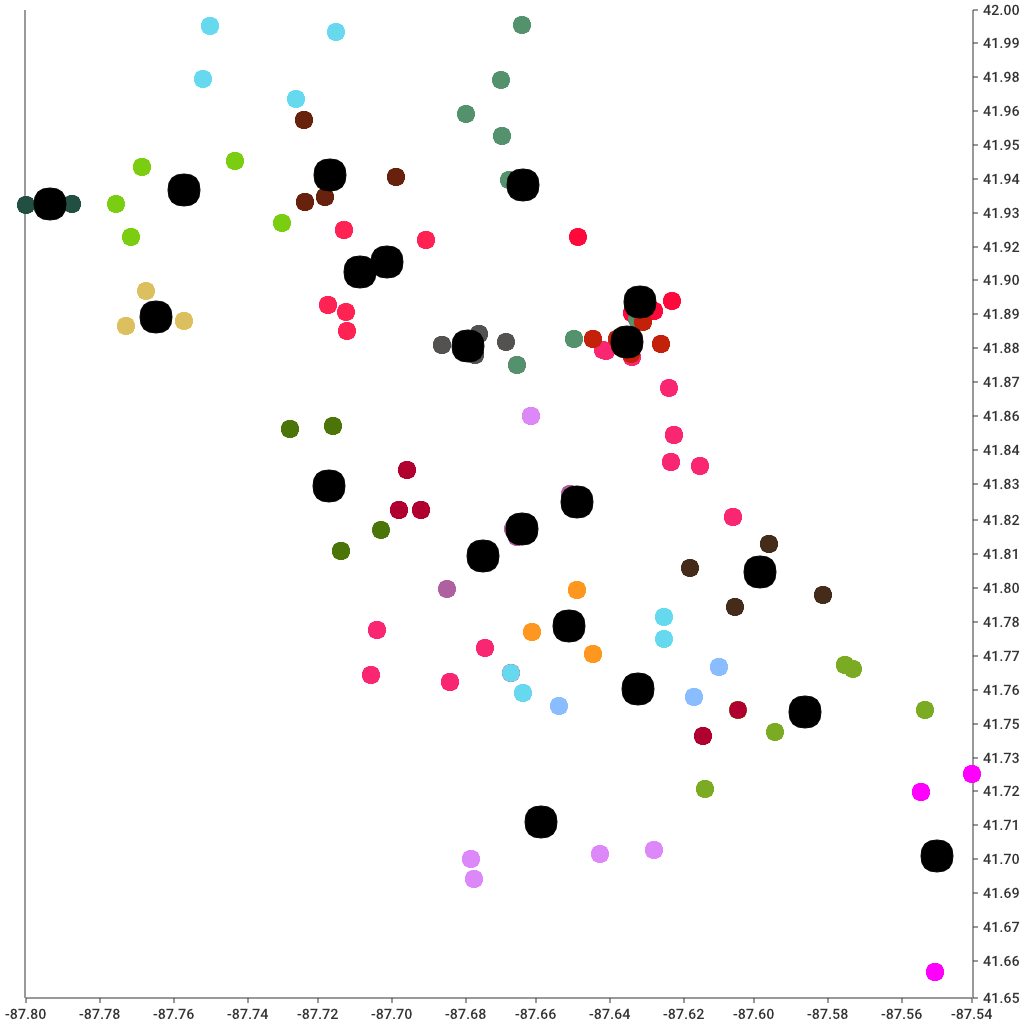
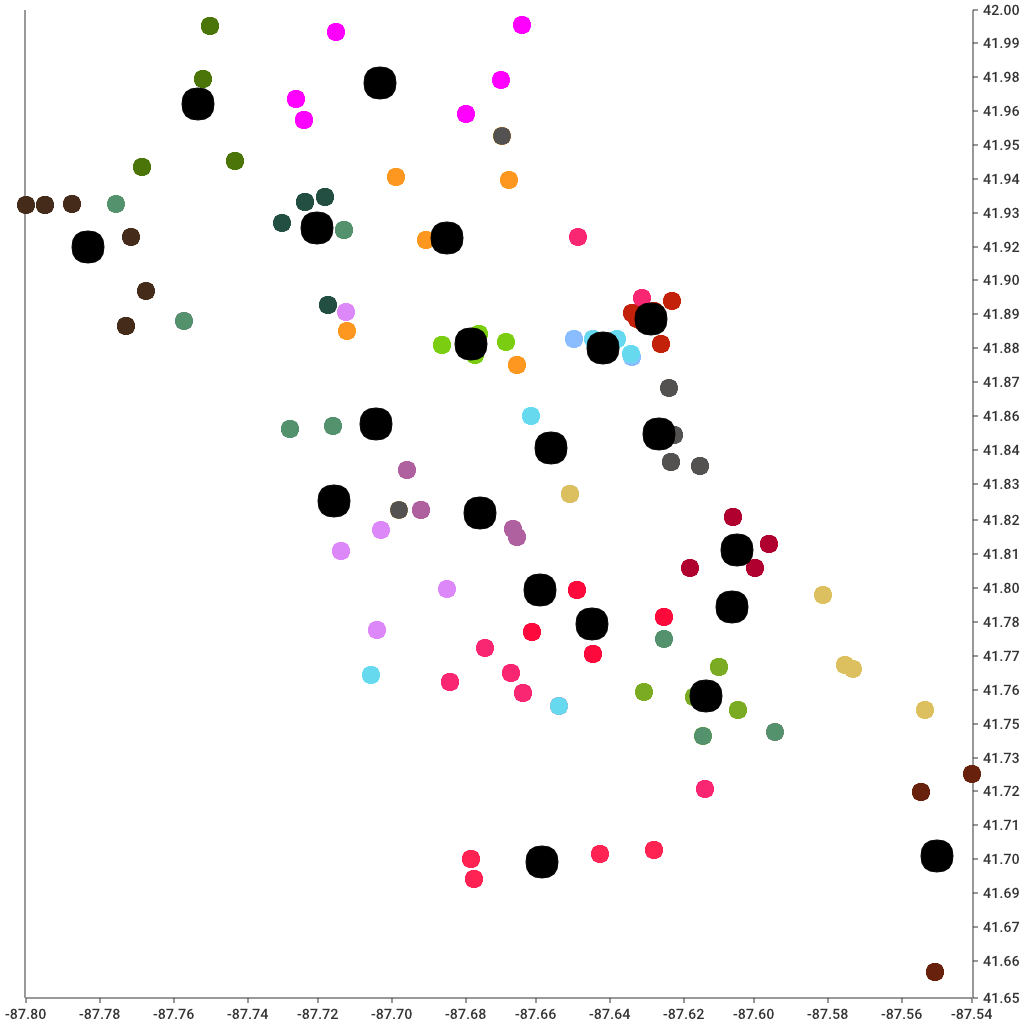
new method

diff --git a/borderadjust.go b/borderadjust.go
@@ -11,7 +11,7 @@ type diffsort struct {
 	data   Observation
 }
 
-func (c Clusters) borderadjust(A int, B int) (Observations, []diffsort) {
+func (c Clusters) borderadjust(A int) (Observations, []diffsort) {
 	rand.Seed(time.Now().UnixNano())
 	// For each point p in area A
 	var diff []diffsort
@@ -19,13 +19,14 @@ func (c Clusters) borderadjust(A int, B int) (Observations, []diffsort) {
 	var diffA []diffsort
 	var obsA Observations
 	var obsB Observations
-	// var ci int
+	var r int
+
 	for _, p := range c[A].Observations {
+		r, _ = c.Neighbour(p, A)
 		distA := p.Distance(c[A].Center)
-		distB := p.Distance(c[B].Center)
+		distB := p.Distance(c[r].Center)
 		//  Calculate diff(p, B) based on (2);
 		diff = append(diff, diffsort{distB - distA, p})
-		// ci = c.Nearest(p)
 		// fmt.Println(A, B, "then", ci)
 	}
 	//  Sort all the diff(p, B) ascending;
@@ -35,7 +36,7 @@ func (c Clusters) borderadjust(A int, B int) (Observations, []diffsort) {
 	//  Move the first m point in area A based on sorted
 	// diff(p, B) to area B;
 	n := rand.Intn(103-101) + 101
-	if len(c[A].Observations) > len(c[B].Observations) && len(c[A].Observations) > n {
+	if len(c[A].Observations) > n { // && len(c[A].Observations) > len(c[r].Observations) {
 		m := len(c[A].Observations) - n
 		for i := 0; i < m; i++ {
 			// move to B

diff --git a/main.go b/main.go
@@ -41,7 +41,7 @@ func main() {
 	min, max := MinMax(count)
 	fmt.Println(min, max)
 	iter := 0
-	for max-min > 5 {
+	for max-min > 3 {
 		var count3 []int
 		//  Plan the steps of adjustment among clusters;
 		// 19 step (0, 1) (1,2), dst
@@ -50,13 +50,10 @@ func main() {
 			// cc, _ := New(20, clusters[i].Observations)
 			var diffA Observations
 			var diffB []diffsort
+
 			//call borderadjust, get new cluster A & B
-			if i < (len(clusters) - 1) {
-				diffA, diffB = clusters.borderadjust(i, i+1)
-			} else {
-				diffA, diffB = clusters.borderadjust(i, 0)
-			}
-			// fmt.Println(len(diffA), "&", len(diffB))
+			diffA, diffB = clusters.borderadjust(i)
+
 			if len(diffA) == 0 && len(diffB) == 0 {
 				continue
 			} else if len(diffA) != 0 && len(diffB) != 0 {
